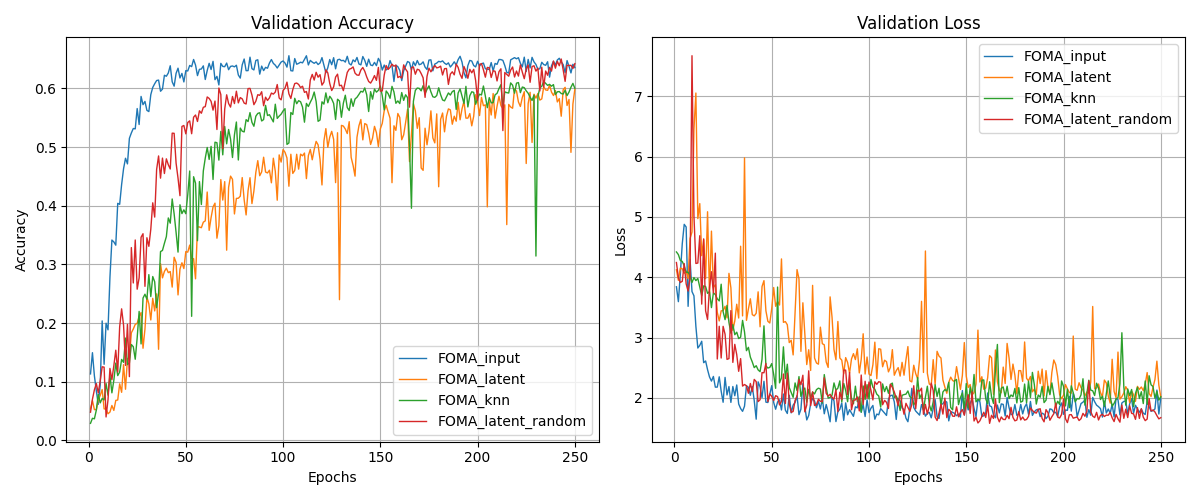
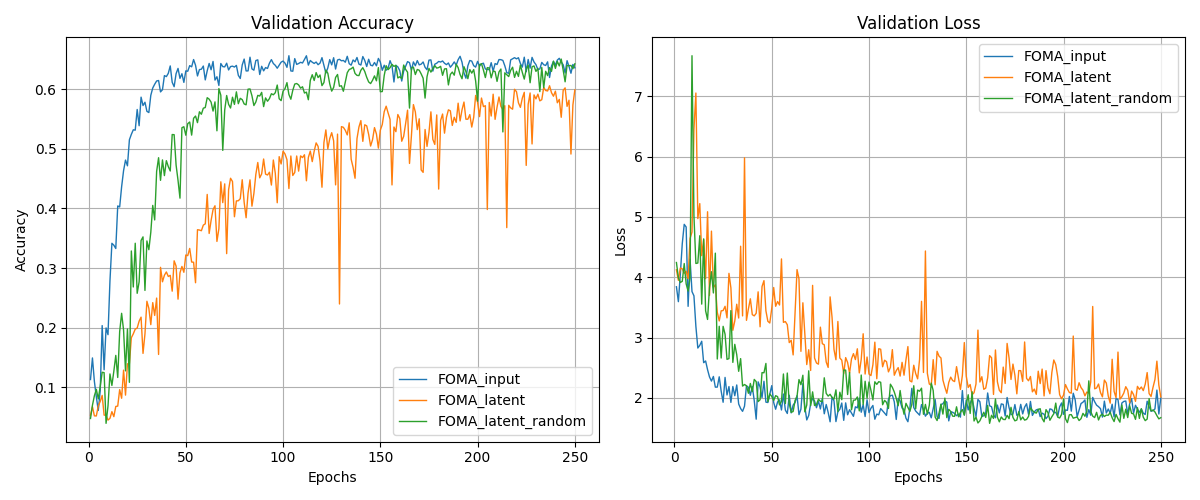
foma latent ranndom (layer0-layer4)

diff --git a/src/models/wide_resnet.py b/src/models/wide_resnet.py
@@ -131,48 +131,35 @@ class Wide_ResNet(nn.Module):
         return nn.Sequential(*layers)
 
     def forward(self, x, labels, device, augment, k=10, aug_ok=False, mixup_hidden=False, num_classes=100):
-        if mixup_hidden == False:
-            if augment == "FOMA_latent_random":
-                if aug_ok:
-                    layer_foma = random.randint(0, 4)
-                    out = x
+        if augment == "FOMA_latent_random":
+            if aug_ok:
+                layer_foma = random.randint(0, 4)
+                out = x
 
-                    if layer_foma == 0:
-                        out, y_soft = foma(out, labels, num_classes, alpha=1.0, rho=0.9)
+                if layer_foma == 0:
+                    out, y_soft = foma(out, labels, num_classes, alpha=1.0, rho=0.9)
 
-                    # conv1 → layer1 → (maybe foma) → layer2 → (maybe foma) → layer3 → ... 
-                    out = self.conv1(out)
-                    out = self.layer1(out)   # ← You must pass through layer1 here.
-                    if layer_foma == 1:
-                        out, y_soft = foma(out, labels, num_classes, alpha=1.0, rho=0.9)
+                out = self.conv1(out)
+                out = self.layer1(out)   
+                if layer_foma == 1:
+                    out, y_soft = foma(out, labels, num_classes, alpha=1.0, rho=0.9)
 
-                    out = self.layer2(out)
-                    if layer_foma == 2:
-                        out, y_soft = foma(out, labels, num_classes, alpha=1.0, rho=0.9)
+                out = self.layer2(out)
+                if layer_foma == 2:
+                    out, y_soft = foma(out, labels, num_classes, alpha=1.0, rho=0.9)
 
-                    out = self.layer3(out)
-                    if layer_foma == 3:
-                        out, y_soft = foma(out, labels, num_classes, alpha=1.0, rho=0.9)
+                out = self.layer3(out)
+                if layer_foma == 3:
+                    out, y_soft = foma(out, labels, num_classes, alpha=1.0, rho=0.9)
 
-                    out = F.relu(self.bn1(out))
-                    out = F.avg_pool2d(out, 8)
-                    out = out.view(out.size(0), -1)
-                    if layer_foma == 4:
-                        out, y_soft = foma(out, labels, num_classes, alpha=1.0, rho=0.9)
+                out = F.relu(self.bn1(out))
+                out = F.avg_pool2d(out, 8)
+                out = out.view(out.size(0), -1)
+                if layer_foma == 4:
+                    out, y_soft = foma(out, labels, num_classes, alpha=1.0, rho=0.9)
 
-                    out = self.linear(out)
-                    return out, y_soft
-                else:
-                    out = self.conv1(x)
-                    out = self.layer1(out)
-                    out = self.layer2(out)
-                    out = self.layer3(out)
-                    out = F.relu(self.bn1(out))
-                    out = F.avg_pool2d(out, 8)
-                    out = out.view(out.size(0), -1)
-                    out = self.linear(out)
-                    return out
-                
+                out = self.linear(out)
+                return out, y_soft
             else:
                 out = self.conv1(x)
                 out = self.layer1(out)
@@ -181,57 +168,49 @@ class Wide_ResNet(nn.Module):
                 out = F.relu(self.bn1(out))
                 out = F.avg_pool2d(out, 8)
                 out = out.view(out.size(0), -1)
-                if aug_ok:
-                    if augment == "FOMA_latent" or augment == "FOMA_curriculum":
-                        out, y_soft = foma(out, labels, num_classes, alpha=1.0, rho=0.9)
-                        out = self.linear(out)
-                        return out, y_soft
+                out = self.linear(out)
+                return out
 
-                    else:
-                        out = self.linear(out)
-                        return out
-                else:
-                    out = self.linear(out)
-                    return out
-            
-        else:
-            mixup_alpha = 0.1
-            layer_mix = random.randint(1,5)
-            out = x
-            
-            # if layer_mix == 0:
-            #     out, y_a, y_b, lam = mixup_data_hidden(out, labels, mixup_alpha)
-            
-            out = F.relu(self.bn1(self.conv1(x)))
-            out = self.layer1(out)
-    
-            if layer_mix == 1:
-                out, y_a, y_b, lam = mixup_data_hidden(out, labels, mixup_alpha)
+        elif augment == "Manifold-Mixup":
+            if aug_ok:
+                mixup_alpha = 1.0
+                layer_mix = random.randint(0,4)
+                out = x
+                
+                if layer_mix == 0:
+                    out, y_a, y_b, lam = mixup_data_hidden(out, labels, mixup_alpha)
+                
+                out = self.conv1(out)
+                out = self.layer1(out)
+                if layer_mix == 1:
+                    out, y_a, y_b, lam = mixup_data_hidden(out, labels, mixup_alpha)
 
-            out = self.layer2(out)
-    
-            if layer_mix == 2:
-                out, y_a, y_b, lam = mixup_data_hidden(out, labels, mixup_alpha)
+                out = self.layer2(out)
+                if layer_mix == 2:
+                    out, y_a, y_b, lam = mixup_data_hidden(out, labels, mixup_alpha)
 
-            out = self.layer3(out)
-            
-            if layer_mix == 3:
-                out, y_a, y_b, lam = mixup_data_hidden(out, labels, mixup_alpha)
+                out = self.layer3(out)
+                if layer_mix == 3:
+                    out, y_a, y_b, lam = mixup_data_hidden(out, labels, mixup_alpha)
+                
+                out = F.relu(self.bn1(out))
+                out = F.avg_pool2d(out, 8)
+                out = out.view(out.size(0), -1)
+                if layer_mix == 4:
+                    out, y_a, y_b, lam = mixup_data_hidden(out, labels, mixup_alpha)
 
-            out = self.layer4(out)
-            
-            if layer_mix == 4:
-                out, y_a, y_b, lam = mixup_data_hidden(out, labels, mixup_alpha)
-
-            # out = F.avg_pool2d(out, 4)
-            out = F.avg_pool2d(out, out.size()[2])
-            out = out.view(out.size(0), -1)
-
-            if layer_mix == 5:
-                out, y_a, y_b, lam = mixup_data_hidden(out, labels, mixup_alpha)
-
-            out = self.linear(out)
-            return out, y_a, y_b, lam
+                out = self.linear(out)
+                return out, y_a, y_b, lam
+            else:
+                out = self.conv1(x)
+                out = self.layer1(out)
+                out = self.layer2(out)
+                out = self.layer3(out)
+                out = F.relu(self.bn1(out))
+                out = F.avg_pool2d(out, 8)
+                out = out.view(out.size(0), -1)
+                out = self.linear(out)
+                return out
     
     def extract_features(self, x):
         out = self.conv1(x)

diff --git a/train2.py b/train2.py
@@ -124,20 +124,20 @@ def main():
         
         # Augmentation List
         augmentations = {
-            # "Original",
-            # "Mixup",
+            "Original",
+            "Mixup",
+            "Manifold-Mixup",
+            "FOMA",
+            "FOMA_latent_random",
+
             # "Mixup-Original",
             # "Mixup-PCA",
             # "Mixup-Original&PCA",
-            # "Manifold-Mixup",
             # "PCA",
 
             # "FOMA_hard",
             # "FOMA_latent",
-            # "FOMA",
-            "FOMA_latent_random",
             # "FOMA_curriculum"
-
             # "FOMA_samebatch"
             # "FOMA_knn"
         }

diff --git a/result.py b/result.py
@@ -6,11 +6,11 @@ import matplotlib.pyplot as plt
 def main():
     iteration     = 1
     data_type     = "cifar100"
-    epochs        = 250
+    epochs        = 400
     model_type    = "wide_resnet_28_10"
     augmentations = [
-        # "Original", 
-        # "Mixup", 
+        "Original", 
+        "Mixup", 
 
         # "Mixup-Original", 
         # "Mixup-PCA", 
@@ -20,9 +20,9 @@ def main():
 
         "FOMA",
         # "FOMA_hard",
-        "FOMA_latent",
+        # "FOMA_latent",
         # "FOMA_curriculum",
-        "FOMA_knn",
+        # "FOMA_knn",
 
         "FOMA_latent_random"
     ]
